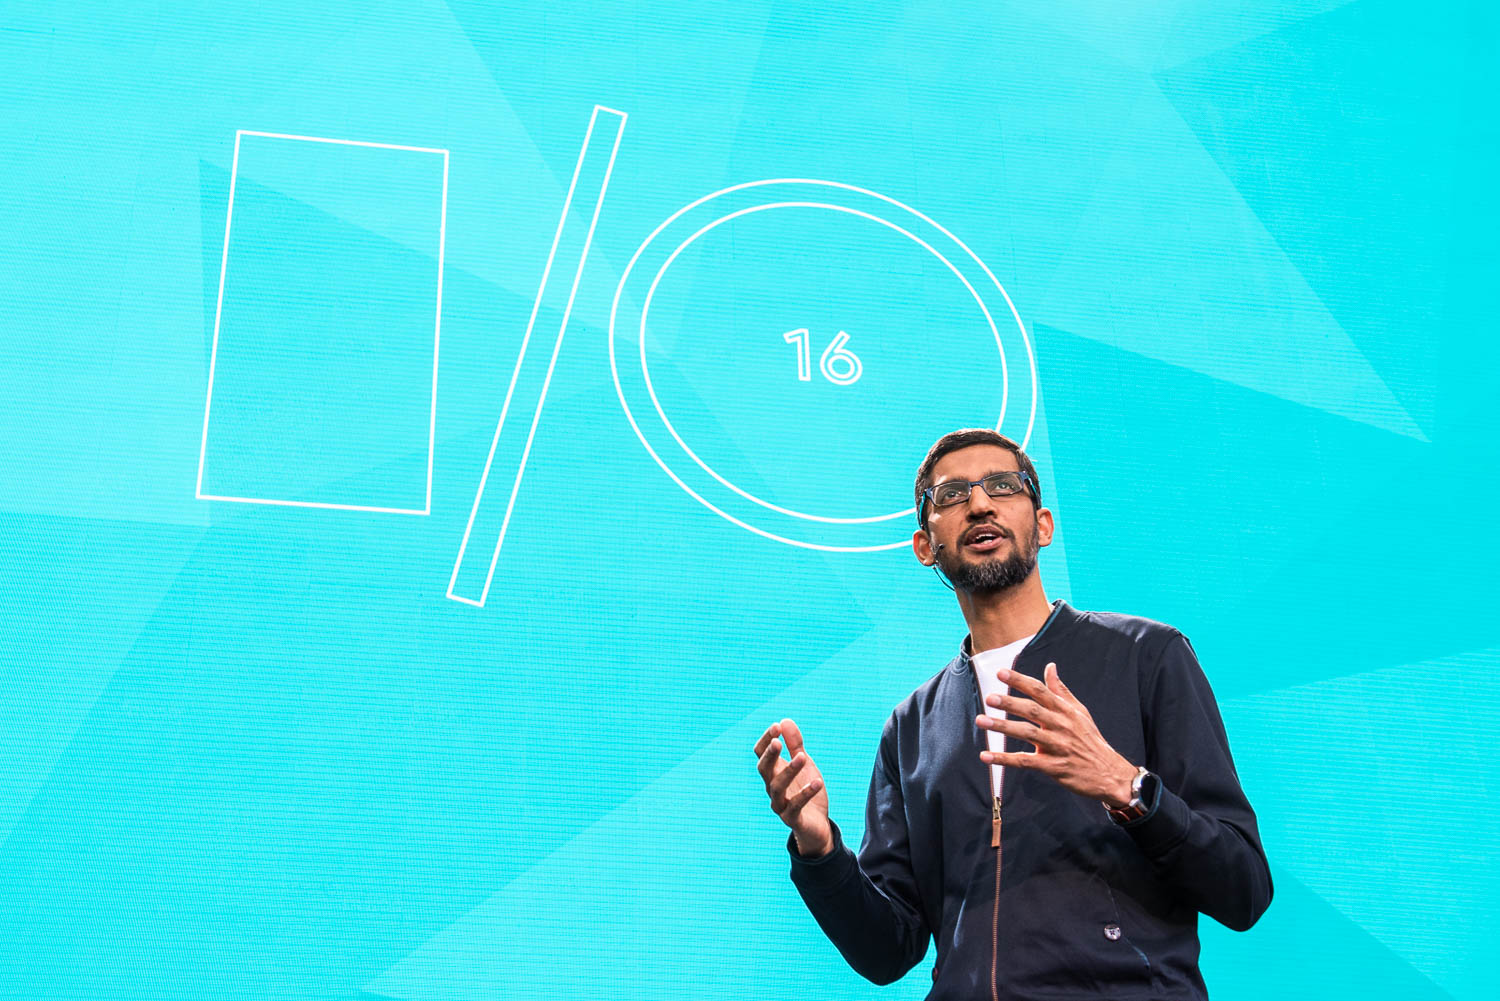
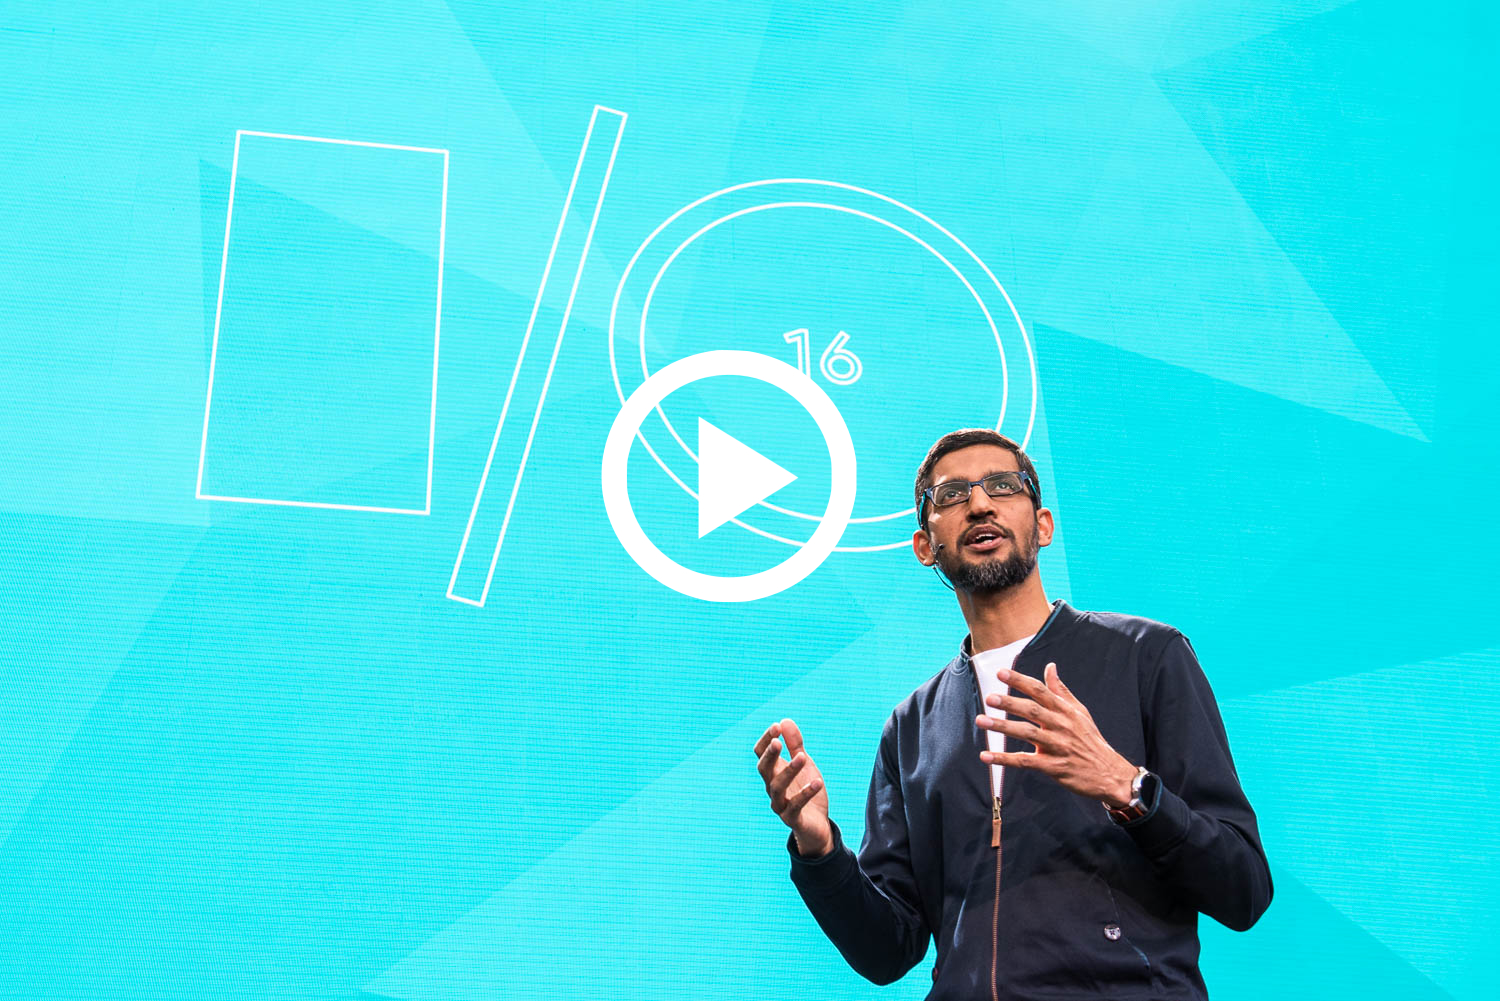
updated

Changed region(s): [[0.3987, 0.3407, 0.5827, 0.6194]]

diff --git a/styles/main.css b/styles/main.css
@@ -244,4 +244,12 @@ footer .mdl-logo a {
   color: #000000 !important;
 }
 
+img#imgPlay {
+  filter: grayscale(0);
+  transition: grayscale 0.5s;
+}
+
+img#imgPlay:hover {
+  filter: grayscale(1);
+}
[1 lines of base64/hex data omitted]

diff --git a/index.html b/index.html
@@ -154,8 +154,8 @@
                     </div>
                 </div>
 
-                <section class="section--center mdl-grid site-max-width homepage-portfolio" style="margin-top:30px;">
-                    <div class="linkboxes ">
+                <section class="section--center mdl-grid site-max-width homepage-portfolio" style="margin-top:30px;margin-bottom:-50px;">
+                    <div class="linkboxes" style="padding:0 !important;">
                         <div class="linkboxes__content">
                             <div class="linkboxes__title">
                                 Explore themes
@@ -246,14 +246,14 @@
                     </div>
                 </section>
 
-                <section class="section--center mdl-grid site-max-width" style="margin-top:-150px;">
-                    <div>
-                        <img src="img/sundar_key.jpg" />
-                    </div>
-                </section>
+                <div style="margin-top:30px; margin-bottom:60px;">
+                    <center>
+                        <img id="imgPlay" src="img/sundar_key.jpg" style="height:560px;" data-video="https://www.youtube.com/embed/E_heSNIn8ik?autoplay=1"/>
+                    </center>
+                </div>
                 <hr style="margin-top:0; z-index:2000; position: relative;"/>
 
-                <section id="ioshedule" class="section--center mdl-grid site-max-width homepage-portfolio" style="margin-top:0px;">
+                <section id="ioshedule" class="section--center mdl-grid site-max-width homepage-portfolio" style="margin-top:0; z-index:4000; position: relative;">
                     <div class="linkboxes ">
                         <div class="linkboxes__content">
                             <div class="linkboxes__title">
@@ -564,6 +564,11 @@
                 console.log('top');
                 $('main').animate({ scrollTop: 0 }, "slow");
             })
+        });
+
+        $('#imgPlay').click(function(){
+            video = '<center><iframe src="'+ $(this).attr('data-video') +'" style="width:80%;height:450px; margin-top:50px;"></iframe></center>';
+            $(this).replaceWith(video);
         });
     </script>
     <script src="scripts/TweenMax.js"></script>
